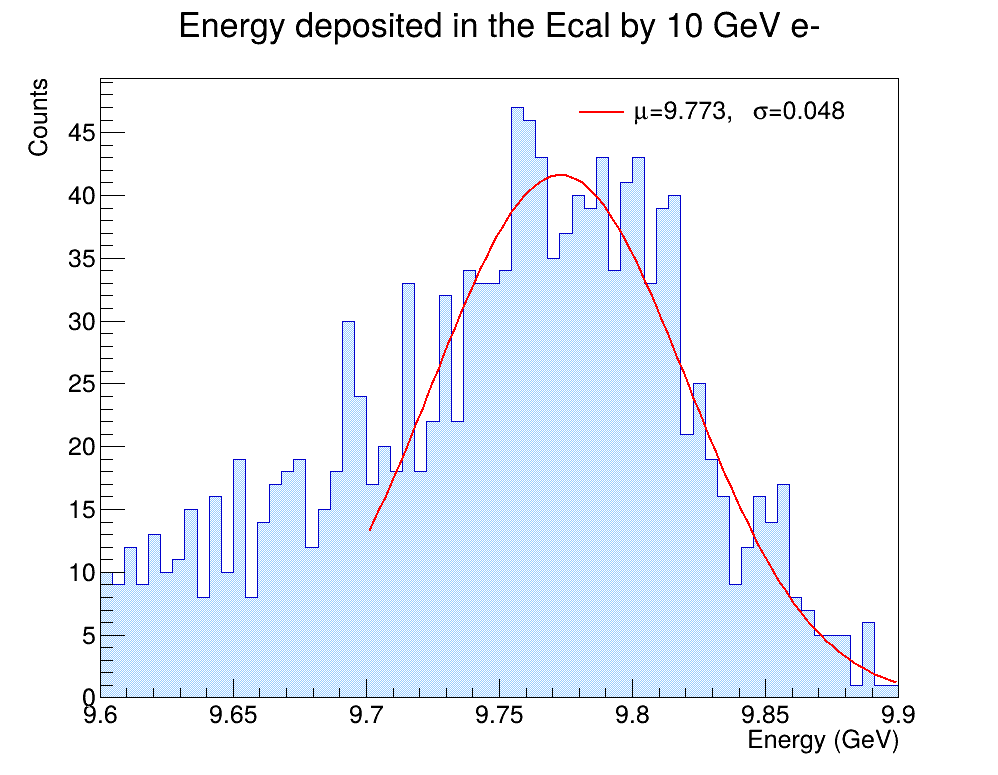
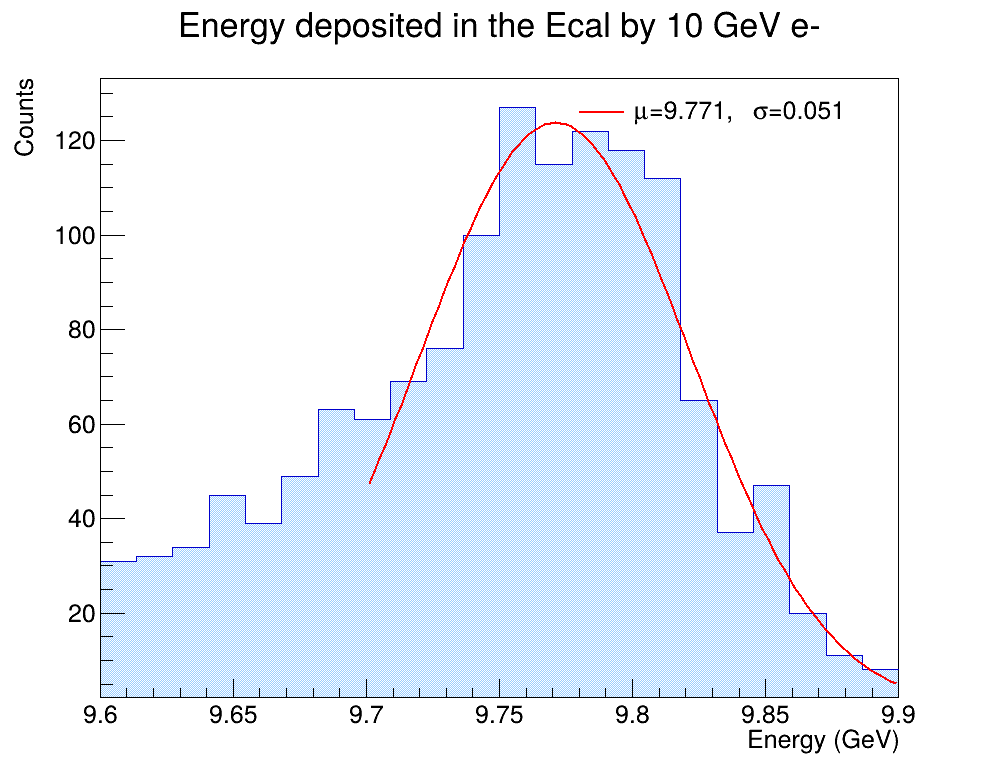
Add new files and updates

diff --git a/plot_Ecal.C b/plot_Ecal.C
@@ -15,7 +15,7 @@ void plot_Ecal() {
 
     TCanvas *c1 = new TCanvas("c1", "Energy Histogram", 1000, 800);
 
-    events->Draw("Sum$(EcalEndcapNHits.energy) >> htemp(66, 9.6, 9.9)");
+    events->Draw("Sum$(EcalEndcapNHits.energy) >> htemp(22, 9.6, 9.9)");
 
     TH1F *htemp = (TH1F*)gDirectory->Get("htemp");
     htemp->SetTitle("Energy deposited in the Ecal by 10 GeV e-;Energy (GeV);Counts");
